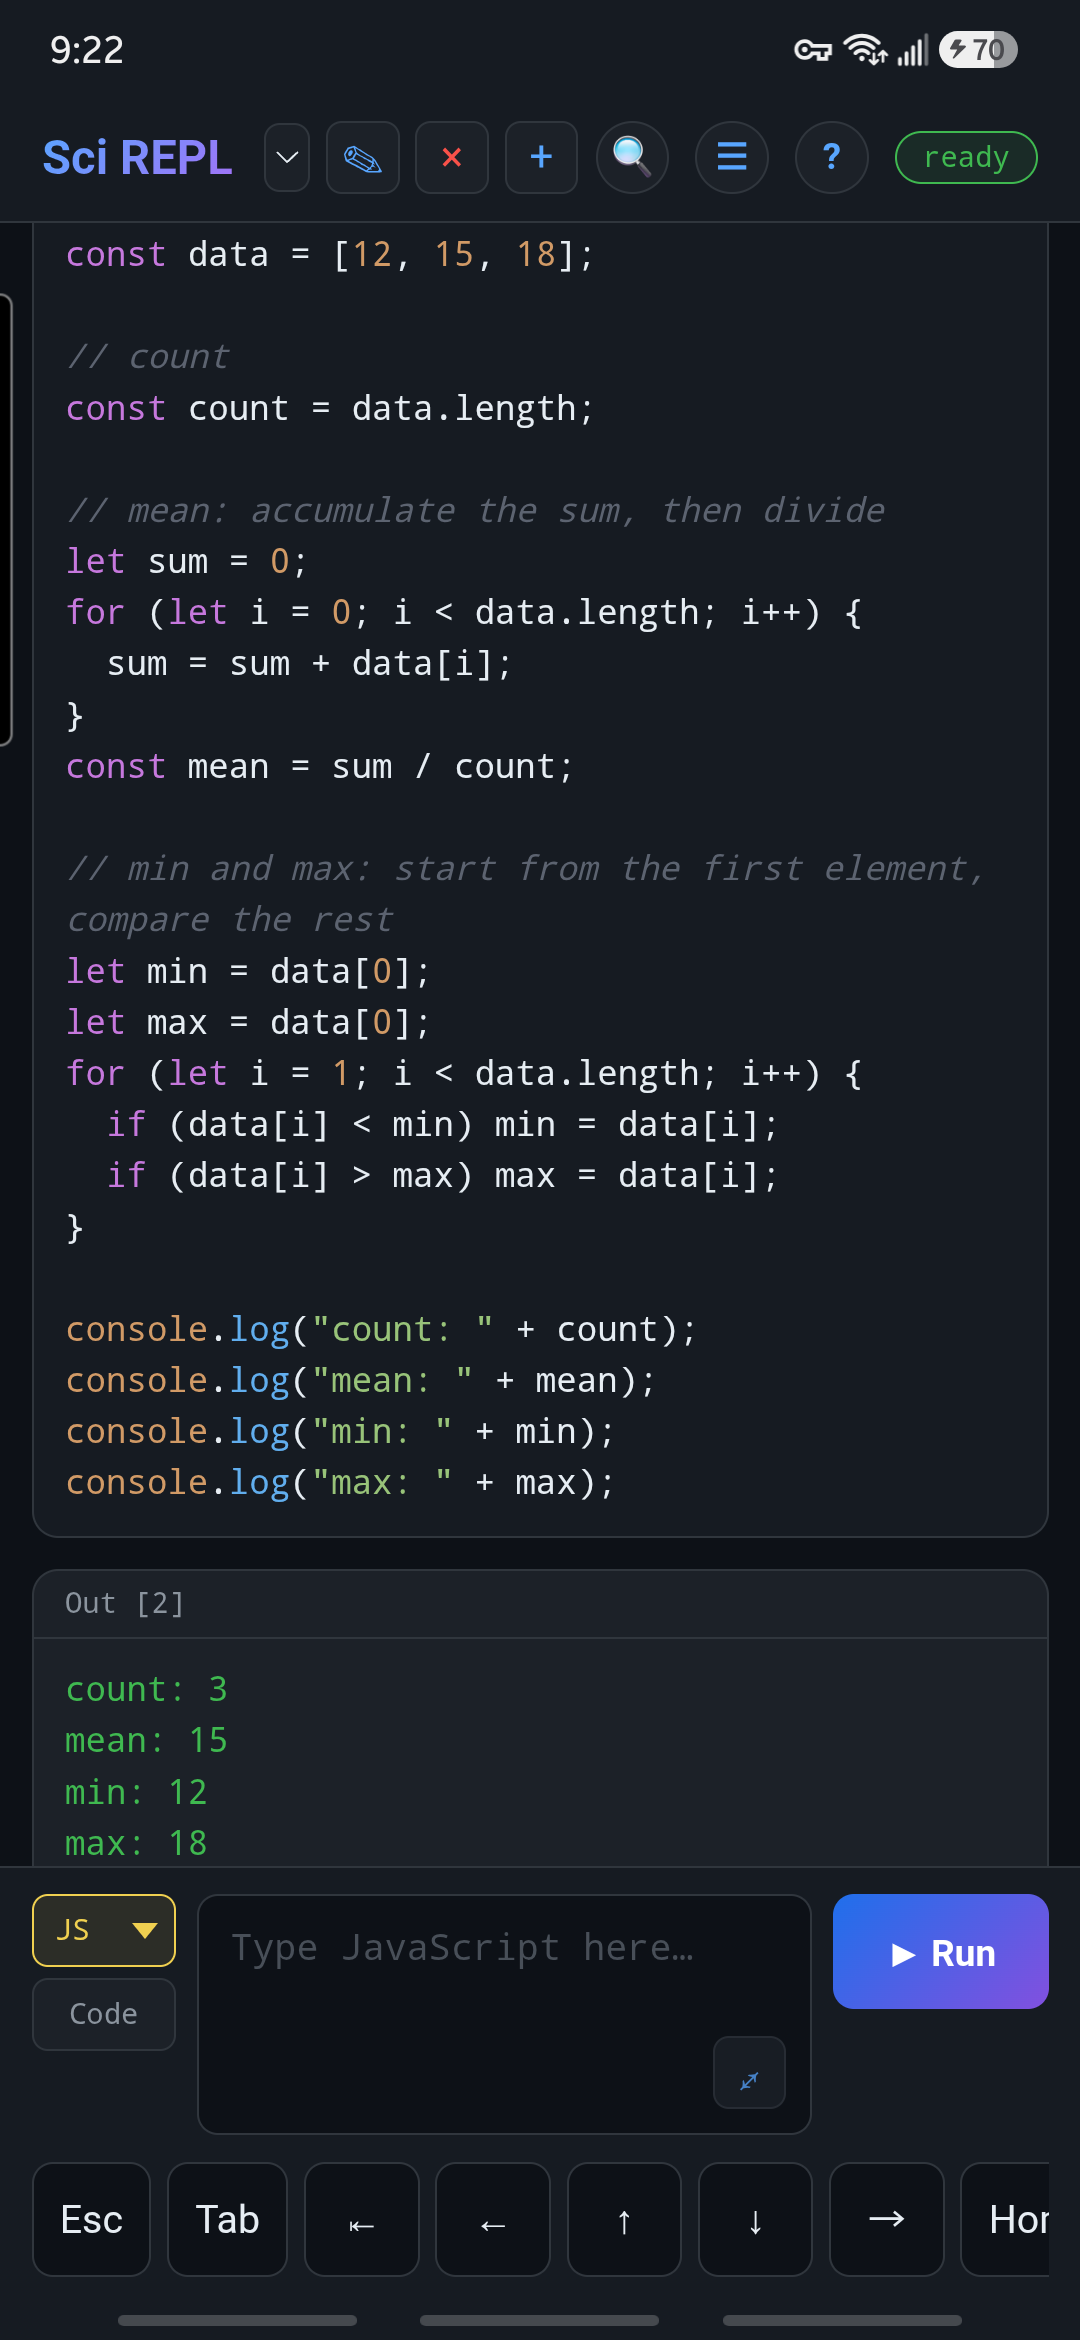
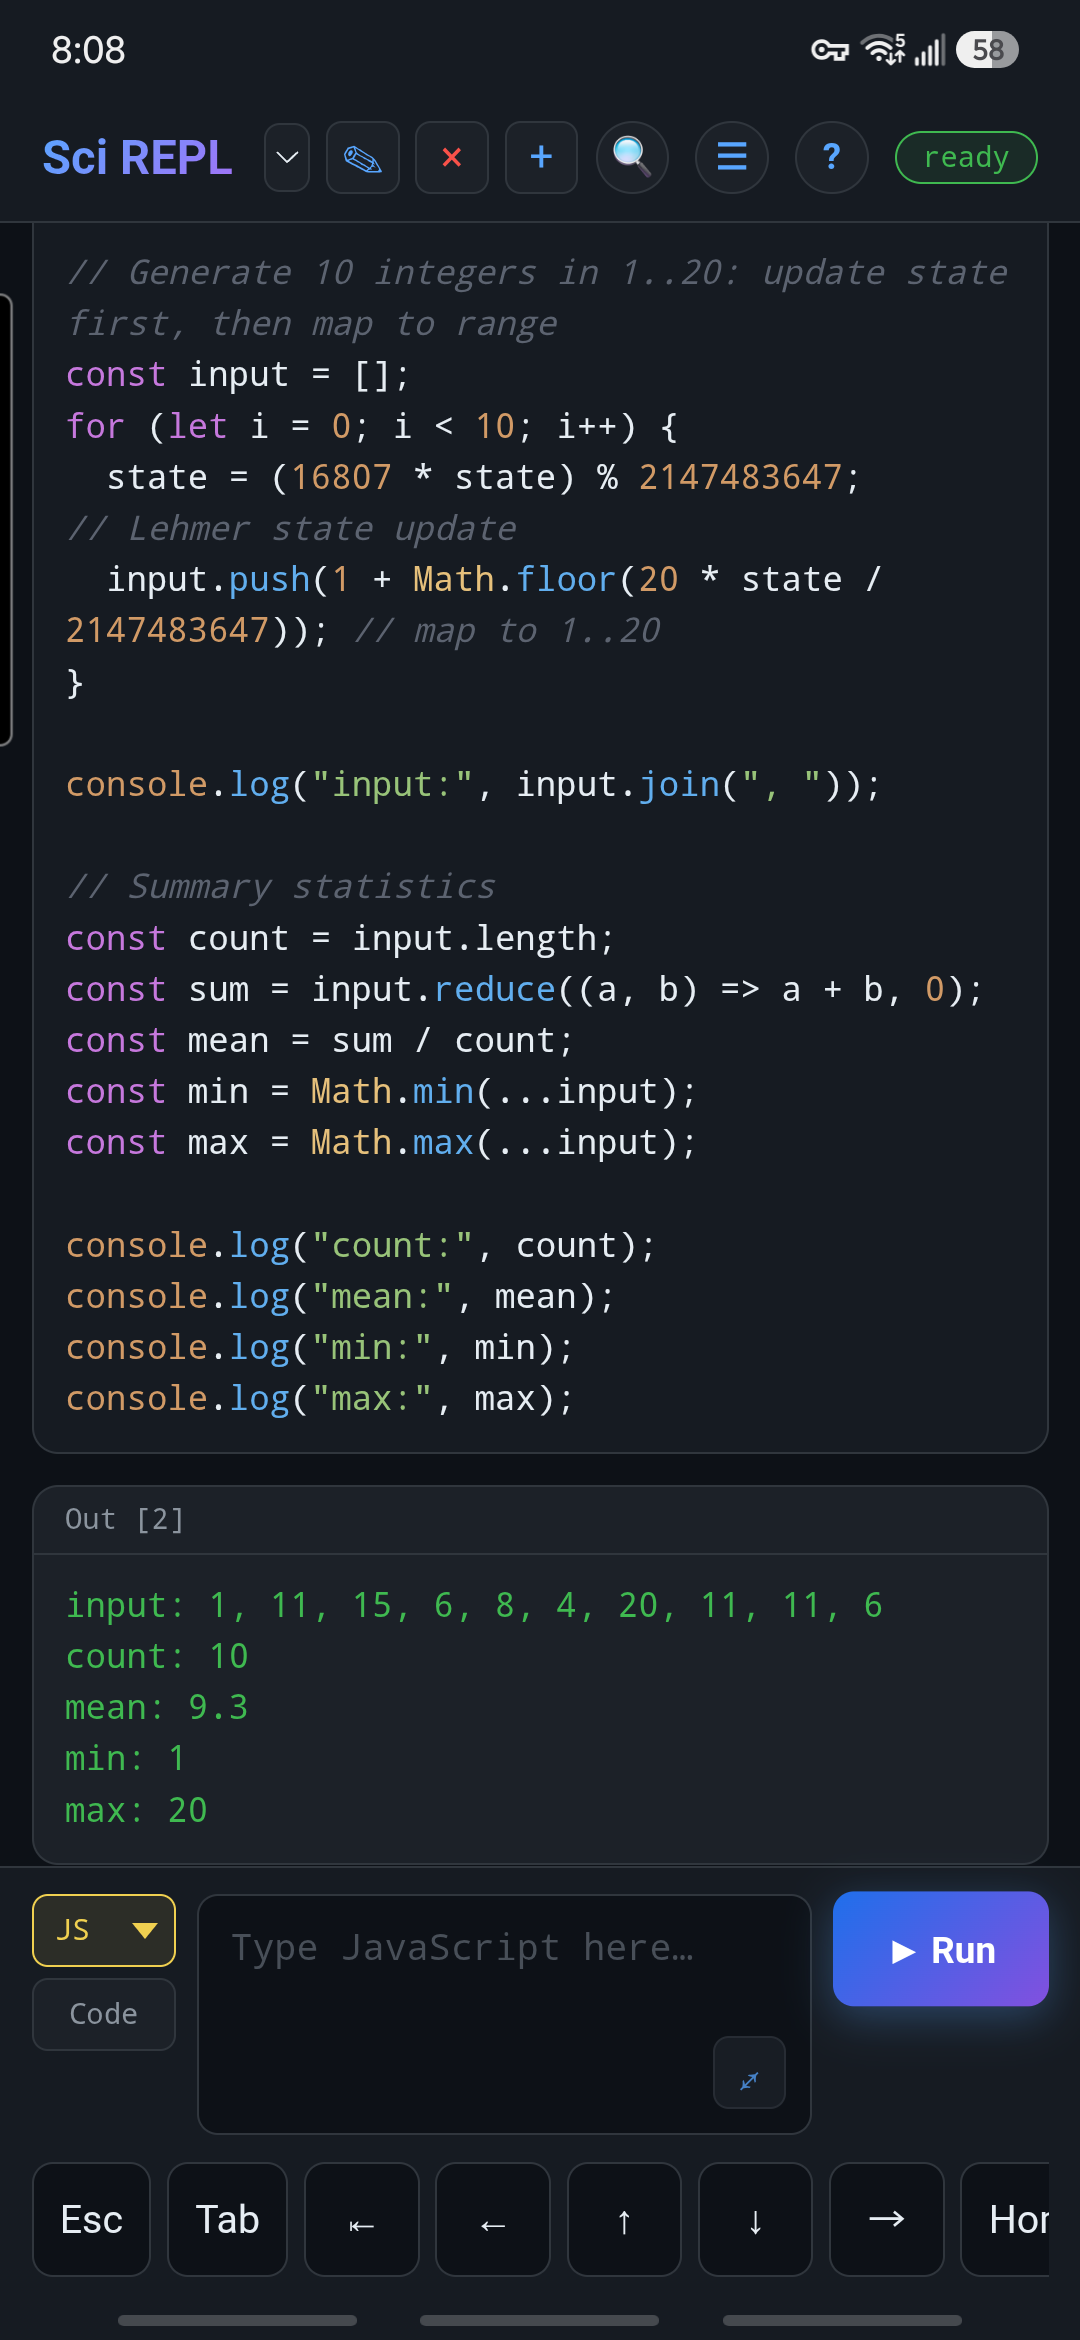
docs: refresh seeded agent result on S24 and move security callout

diff --git a/www/help/pro/ai/tutorial/index.html b/www/help/pro/ai/tutorial/index.html
@@ -155,6 +155,12 @@ sample_m</code></pre>
         <ol class="lesson-steps">
           <li>In AI Settings, select <strong>Security Level → Open</strong> and <strong>Agent writes → Active worksheet</strong>. Leave source browsing off and turn off <strong>Auto-run cells created by AI</strong>. Under <strong>Kernels…</strong>, set <strong>JavaScript → Ask</strong>, then save. This kernel rule still asks even if an execution-tool Allow was saved earlier.
             <p class="callout" id="auto-run-warning"><strong>Auto-run off is not an execution lock.</strong> It stops newly created cells from running automatically; it does not disable separate <code>execute_cell</code> or <code>run_cells</code> requests. Released Pro 1.4.0's Open default can allow them without asking. The upcoming Open default asks, but an explicit tool or kernel Allow can change that default. <strong>AI Settings → Kernels… → JavaScript → Ask</strong> keeps this exercise's JavaScript execution behind confirmation. Your own manual cell Run remains a separate action. <a href="#execution-permissions">Next-release execution controls are detailed in the appendix.</a></p>
+            <aside class="callout" id="sandbox">
+              <p>If you prefer more confirmation, use <strong>Cautious</strong> instead. Open still respects the separate source-browsing and write-scope controls; Full control bypasses those two coarse controls. Individual permissions and other safety gates still matter. <strong>Review</strong> is an additional read-mostly restriction, which would obstruct this cell-creation demonstration.</p>
+              <h3>What the browser sandbox does—and does not—protect</h3>
+              <p>Normal workbook execution runs in the browser/WebView and its language runtimes, with a virtual filesystem rather than unrestricted access to your phone's files. That is a useful boundary, <strong>not a guarantee that code cannot do harm</strong>. Permitted JavaScript and bridges to it can reach app data and saved credentials; network restrictions are best-effort once allowed code starts, not an isolation boundary you should trust with secrets. The upcoming execution prompt adds an approval step, not isolation from the app's data. Use a practice workbook and keep its contents non-private.</p>
+              <p><strong>Remote/MCP Terminal is different:</strong> it can expose a real shell on the broker host, outside the browser-local sandbox. Keep Remote and Terminal off here. See <a href="../../remote/">Remote and security</a> before enabling them. A polite “do not…” in the prompt is not a security control.</p>
+            </aside>
           </li>
           <li>In the Assistant panel, choose <strong>This workbook</strong>. Leave <strong>Review</strong>, <strong>Remote</strong>, and <strong>Terminal</strong> off for this direct-provider example.</li>
           <li>Send the practice prompt in the callout below. The panel's <strong>Send</strong> already starts the agentic tool loop: there is no extra “Agent mode” toggle here. The full-screen editor's <strong>Agent</strong> button is a separate workflow.
@@ -203,16 +209,10 @@ Maximum: 20</code></pre>
         </figure>
         <p><strong>Paused with a Continue button?</strong> <strong>Agent limits (per run) → Max steps</strong>, highlighted above, controls the step allowance for one bounded run. The agent may reach that limit before finishing. Read what it has already done, then press <strong>Continue</strong> if the task is unfinished and you want another bounded run. Continuing can incur more API charges; it is not needed after <strong>Done</strong>.</p>
         <figure class="phone-figure">
-          <img class="tutorial-shot" src="assets/phone-agent-result.png" width="1080" height="2340" alt="Actual Android Galaxy S24+ screenshot showing the reviewed JavaScript summary_demo source and its output: count 3, mean 15, min 12, max 18." loading="lazy" decoding="async">
-          <figcaption><strong>Actual Galaxy S24+ Android screenshot of the earlier fixed-array exercise.</strong> GLM 5.3 Flash created the practice cells using <code>[12, 15, 18]</code> and finished after two Continue presses. The code was inspected and run manually—not automatically by the agent—and produced count 3, mean 15, minimum 12 and maximum 18. This shows the workflow, not the output of the revised seeded exercise above.</figcaption>
+          <img class="tutorial-shot" src="assets/phone-agent-result.png" width="1080" height="2340" alt="Actual Android Galaxy S24+ screenshot showing part of the reviewed JavaScript summary_demo source and its seeded output: input 1, 11, 15, 6, 8, 4, 20, 11, 11, 6; count 10, mean 9.3, min 1, max 20." loading="lazy" decoding="async">
+          <figcaption><strong>Actual Galaxy S24+ Android screenshot of the seeded-vector exercise above.</strong> GLM 5.3 Flash created the practice cells, paused at a four-step limit, and finished after one <strong>Continue</strong> press. The code was inspected and run manually—not automatically by the agent—and produced the expected input, count 10, mean 9.3, minimum 1 and maximum 20. A second manual Run reproduced the same results. The screenshot shows the output and part of the source; scroll up in the cell to inspect its seed and first lines.</figcaption>
           <a class="full-shot-link" href="assets/phone-agent-result.png">View the full phone screenshot of the reviewed code and result</a>
         </figure>
-        <p>If you prefer more confirmation, use <strong>Cautious</strong> instead. Open still respects the separate source-browsing and write-scope controls; Full control bypasses those two coarse controls. Individual permissions and other safety gates still matter. <strong>Review</strong> is an additional read-mostly restriction, which would obstruct this cell-creation demonstration.</p>
-        <aside class="callout" id="sandbox">
-          <h3>What the browser sandbox does—and does not—protect</h3>
-          <p>Normal workbook execution runs in the browser/WebView and its language runtimes, with a virtual filesystem rather than unrestricted access to your phone's files. That is a useful boundary, <strong>not a guarantee that code cannot do harm</strong>. Permitted JavaScript and bridges to it can reach app data and saved credentials; network restrictions are best-effort once allowed code starts, not an isolation boundary you should trust with secrets. The upcoming execution prompt adds an approval step, not isolation from the app's data. Use a practice workbook and keep its contents non-private.</p>
-          <p><strong>Remote/MCP Terminal is different:</strong> it can expose a real shell on the broker host, outside the browser-local sandbox. Keep Remote and Terminal off here. See <a href="../../remote/">Remote and security</a> before enabling them. A polite “do not…” in the prompt is not a security control.</p>
-        </aside>
       </section>
 
       <section id="online">

diff --git a/www/help/pro/ai/tutorial/assets/README.md b/www/help/pro/ai/tutorial/assets/README.md
@@ -119,7 +119,8 @@ variables as the earlier capture scripts and refuses to overwrite existing files
   `1.4.0-debug`, version code `25`, development UI, active app cache `v461`.
   The installed app's Git commit was not independently identified; do not
   treat the browser source SHA above as the phone's build SHA.
-- Captured 2026-10-08 UTC (2026-10-07–08 local), English/dark theme, portrait,
+- Original pictures captured 2026-10-08 UTC (2026-10-07–08 local); the agent
+  result was refreshed on 2026-10-10 UTC (2026-10-09 local). English/dark theme, portrait,
   1080 × 2340, using Android's `screencap`. These are unmodified full-screen
   PNGs. The four composer pictures use a CSS detail view of their lower
   700 pixels; the expanded Suggestions menu shows original pixels 775–1415;
@@ -157,16 +158,24 @@ variables as the earlier capture scripts and refuses to overwrite existing files
   provider-reported cost $0.0003641, and app-ledger settlement $0.0007282.
   Those are distinct figures, not a promise about the final provider bill.
   The single request took about 2.6 s in this session, not a latency benchmark.
-- `phone-agent-result.png`: GLM 5.3 Flash created a Markdown explanation and
-  the JavaScript `summary_demo` cell for the earlier fixed input `[12, 15, 18]`,
-  not the tutorial's later seeded-vector exercise. It used seven tool-loop steps across
-  three bounded runs, with two Continue presses, then showed Done. Open was
+- `phone-agent-result.png`: refreshed at 2026-10-10 02:08 UTC using the tutorial's
+  exact seeded-vector prompt. GLM 5.3 Flash created a Markdown explanation and
+  the JavaScript `summary_demo` cell. The first bounded run reached the four-step
+  limit; one Continue press made one further provider request, then showed Done. Open was
   selected, auto-run and source browsing were off, JavaScript execution was
   Ask, writes were limited to the practice workbook, and Remote/Terminal were
-  off. The source was inspected before manually pressing the cell's Run;
-  the output was count 3, mean 15, min 12, max 18. The app's displayed burst
-  estimates were approximately $0.0025, $0.0016 and $0.0018—not an independently
-  audited provider total. The online completion alternatives were not run.
+  off. The source was inspected before manually pressing the saved cell's Run.
+  It generated `1, 11, 15, 6, 8, 4, 20, 11, 11, 6`, with count 10, mean 9.3,
+  min 1 and max 20; a second manual Run reproduced the entire output without
+  changing the source. The picture shows all output and part of the source,
+  with the seed and first lines above the scrolled position. Neither code nor
+  screenshot pixels were rewritten to obtain this result.
+  Five HTTP 200 provider responses reported a combined $0.0023609; this is
+  reported usage, not an independently audited bill. Each request was limited
+  to 2,048 output tokens, with the app's per-run USD guard set to $0.03.
+  The installed cache was still v461; its build commit remains unidentified,
+  so this is not evidence of the newer execution-consent implementation.
+  The online completion alternatives were not run.
 - After the check, the original workbook, draft and language were restored,
   along with only the snapshotted temporary completion/agent settings. The
   practice workbook and its checked output remain available. The newly saved
